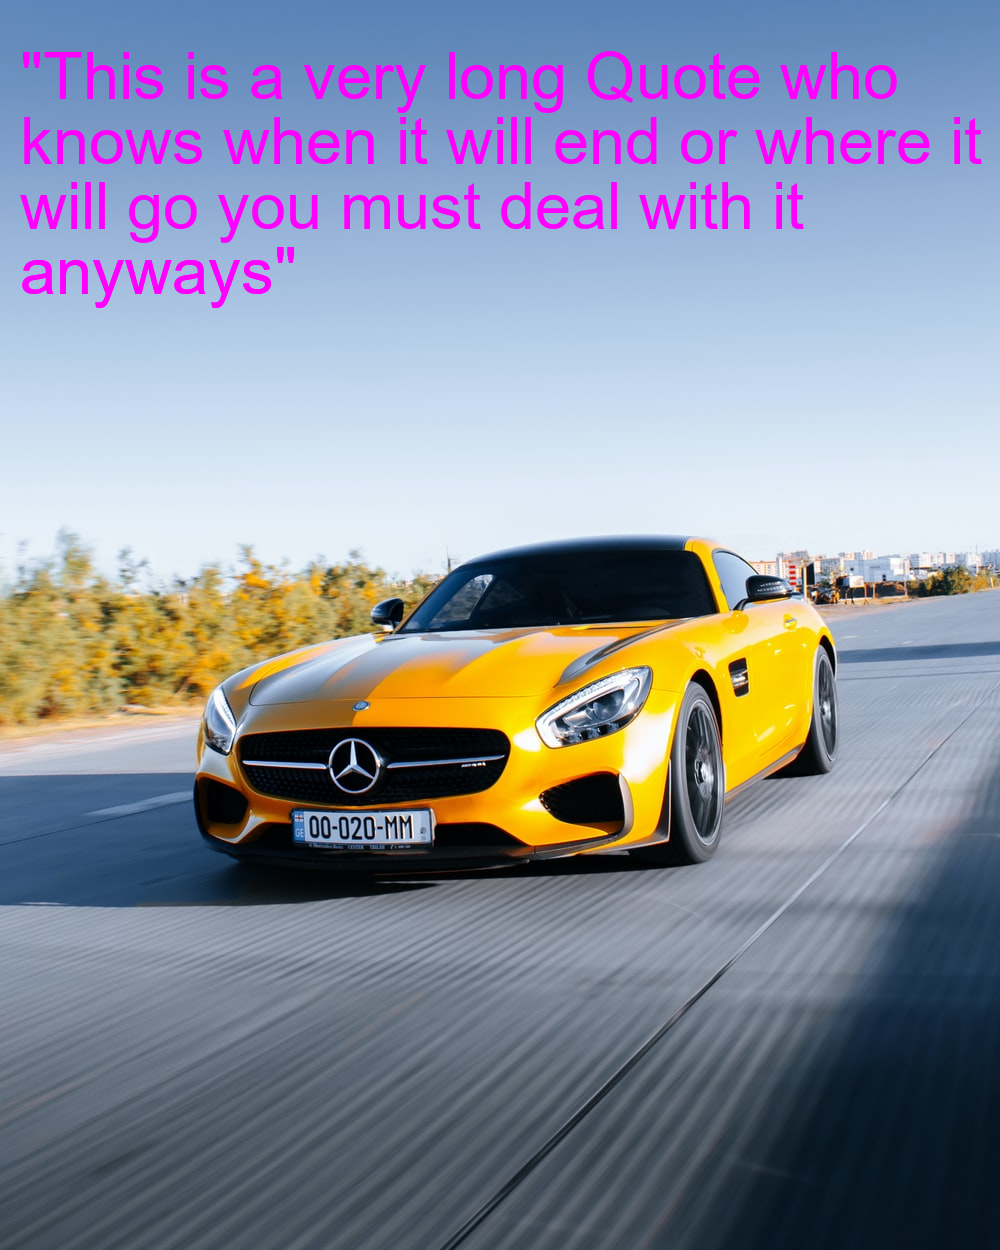
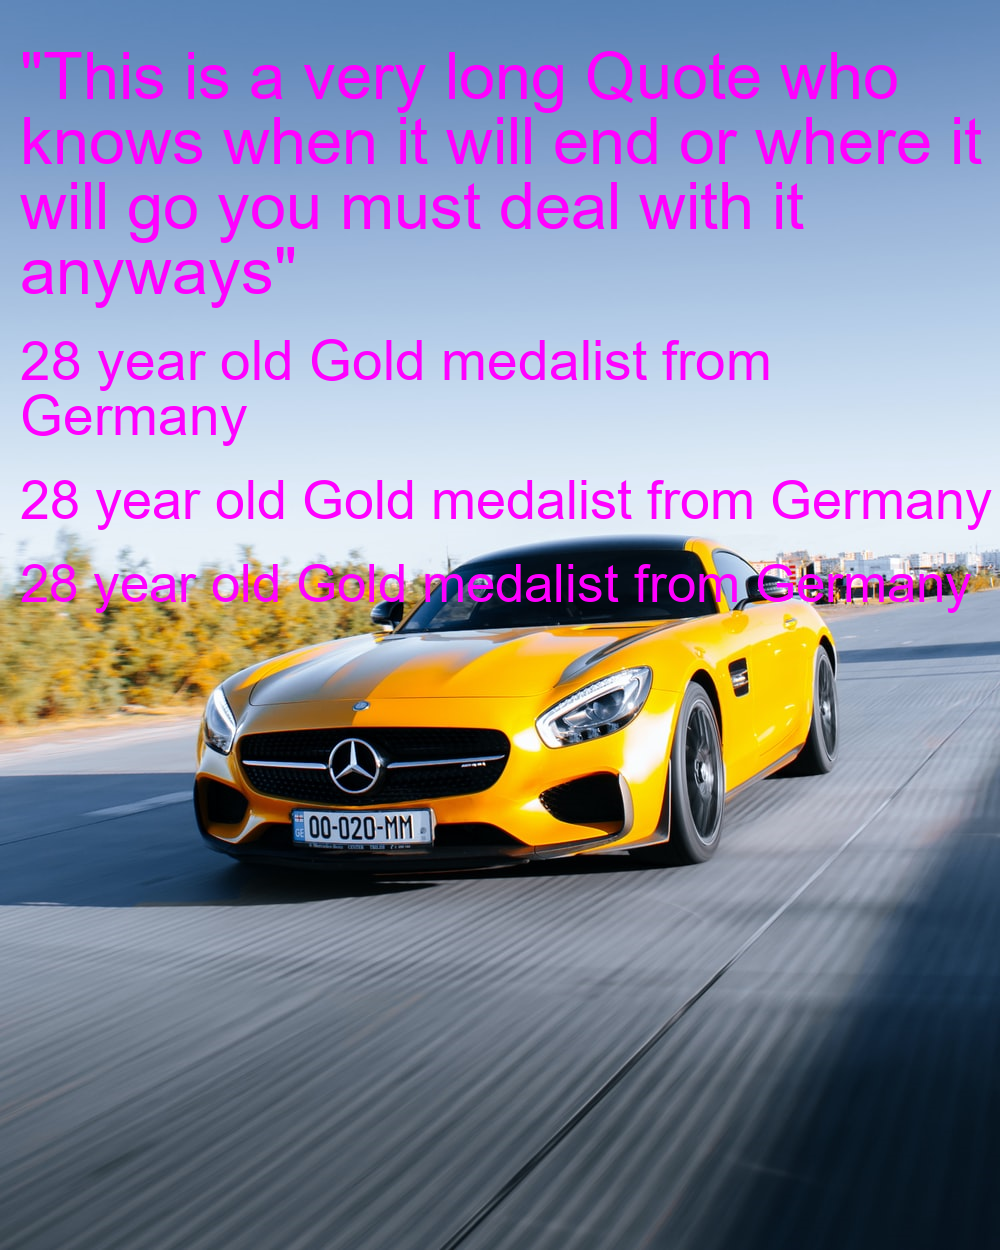
small fixes in auto newline

Changed region(s): [[0.0, 0.2496, 0.992, 0.4992]]

diff --git a/imageProcessor.py b/imageProcessor.py
@@ -28,7 +28,7 @@ def drawWords(text, x, y, R, G, B, size):   #doubled text writer to work with bo
             for a in range(len(newText)):
                 printString += newText[a]
                 printString += " "
-                wordsize = myFont.getsize(printString)[0] + 10
+                wordsize = myFont.getsize(printString)[0] + x
                 #print(wordsize)
                 #sum = sum + myFont.getsize(a)[0]
                 
@@ -40,6 +40,7 @@ def drawWords(text, x, y, R, G, B, size):   #doubled text writer to work with bo
 
                         y=y+size
                         printString = ""
+
                 else: 
                     #if wordsize + myFont.getsize(newText[a+1])[0] > img.width:
                         textPosition = (x, y) # (x, y) from top left
@@ -47,8 +48,8 @@ def drawWords(text, x, y, R, G, B, size):   #doubled text writer to work with bo
                         I1.text(textPosition, printString, font=myFont, fill =fontColour)
 
                         y=y+size
-                        printString = ""
-                        I1.text(textPosition, newText[len(newText)-1], font=myFont, fill =fontColour)
+
+        return y
 
             
 
@@ -57,7 +58,7 @@ def drawWords(text, x, y, R, G, B, size):   #doubled text writer to work with bo
     except OSError:
         # Call draw Method to add 2D graphics in an image
         I1 = ImageDraw.Draw(img)
-        # Custom font style and font size
+        # Custom font style and font size   
         #myFont = ImageFont.load_default()
         fontType = "Arial"              # "arial" for Windows, "Arial" for Mac
         myFont = ImageFont.truetype(fontType, size)
@@ -74,7 +75,7 @@ def drawWords(text, x, y, R, G, B, size):   #doubled text writer to work with bo
             for a in range(len(newText)):
                 printString += newText[a]
                 printString += " "
-                wordsize = myFont.getsize(printString)[0] + 10
+                wordsize = myFont.getsize(printString)[0] + x
                 #print(wordsize)
                 #sum = sum + myFont.getsize(a)[0]
                 
@@ -86,6 +87,7 @@ def drawWords(text, x, y, R, G, B, size):   #doubled text writer to work with bo
 
                         y=y+size
                         printString = ""
+
                 else: 
                     #if wordsize + myFont.getsize(newText[a+1])[0] > img.width:
                         textPosition = (x, y) # (x, y) from top left
@@ -93,23 +95,18 @@ def drawWords(text, x, y, R, G, B, size):   #doubled text writer to work with bo
                         I1.text(textPosition, printString, font=myFont, fill =fontColour)
 
                         y=y+size
-                        printString = ""
-                        I1.text(textPosition, newText[len(newText)-1], font=myFont, fill =fontColour)
 
+        return y
 
-
-        
-        
-        
-        
-        
-        
-
-        
 
 #draw 3 simple magentas lines from the text
-drawWords(Lines[0], 20, 40, 255, 0, 255, 65)
-#drawWords(Lines[1], 20, 300, 255, 0, 255, 65)
+nexty = drawWords(Lines[0], 20, 40, 255, 0, 255, 65)
+nexty = drawWords(Lines[1], 20, nexty+30, 255, 0, 255, 55)
+nexty = drawWords(Lines[1], 20, nexty+30, 255, 0, 255, 54)
+nexty = drawWords(Lines[1], 20, nexty+30, 255, 0, 255, 53)
+nexty = drawWords(Lines[1], 20, nexty+30, 255, 0, 255, 52)
+nexty = drawWords(Lines[1], 20, nexty+30, 255, 0, 255, 51)
+
 #drawWords(Lines[2], 20, 280, 255, 0, 255, 65)
 
 
